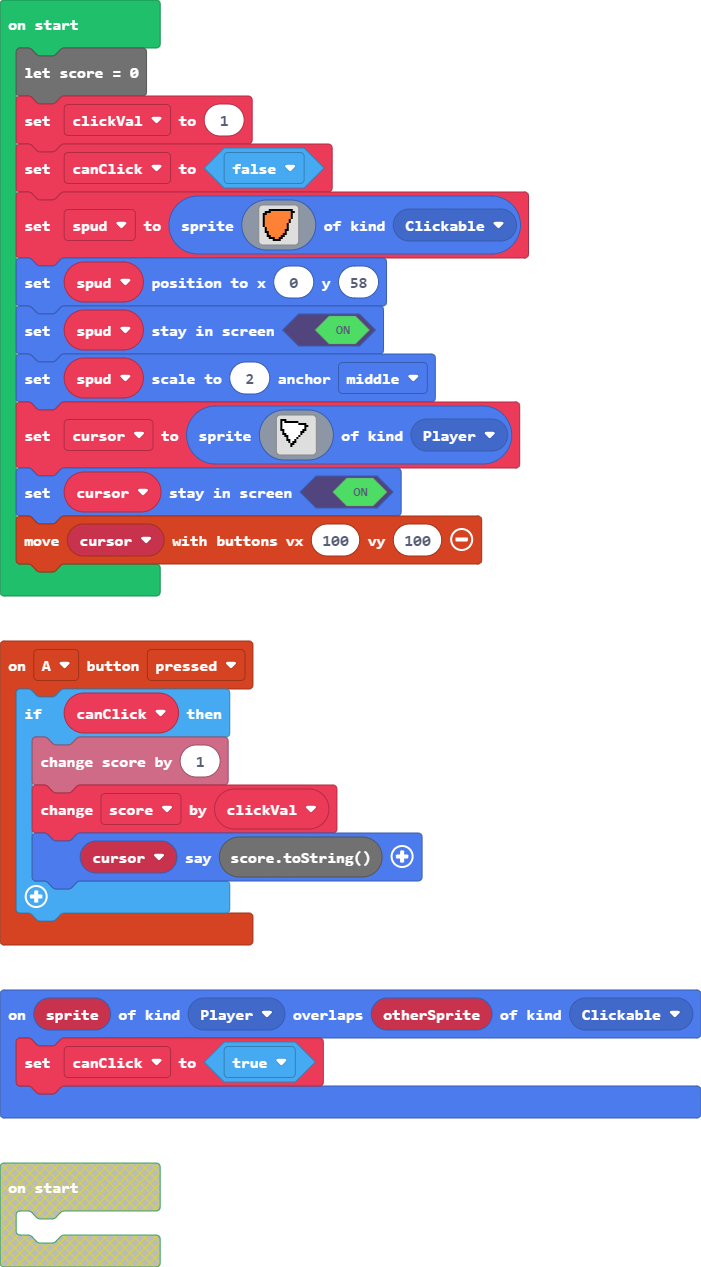
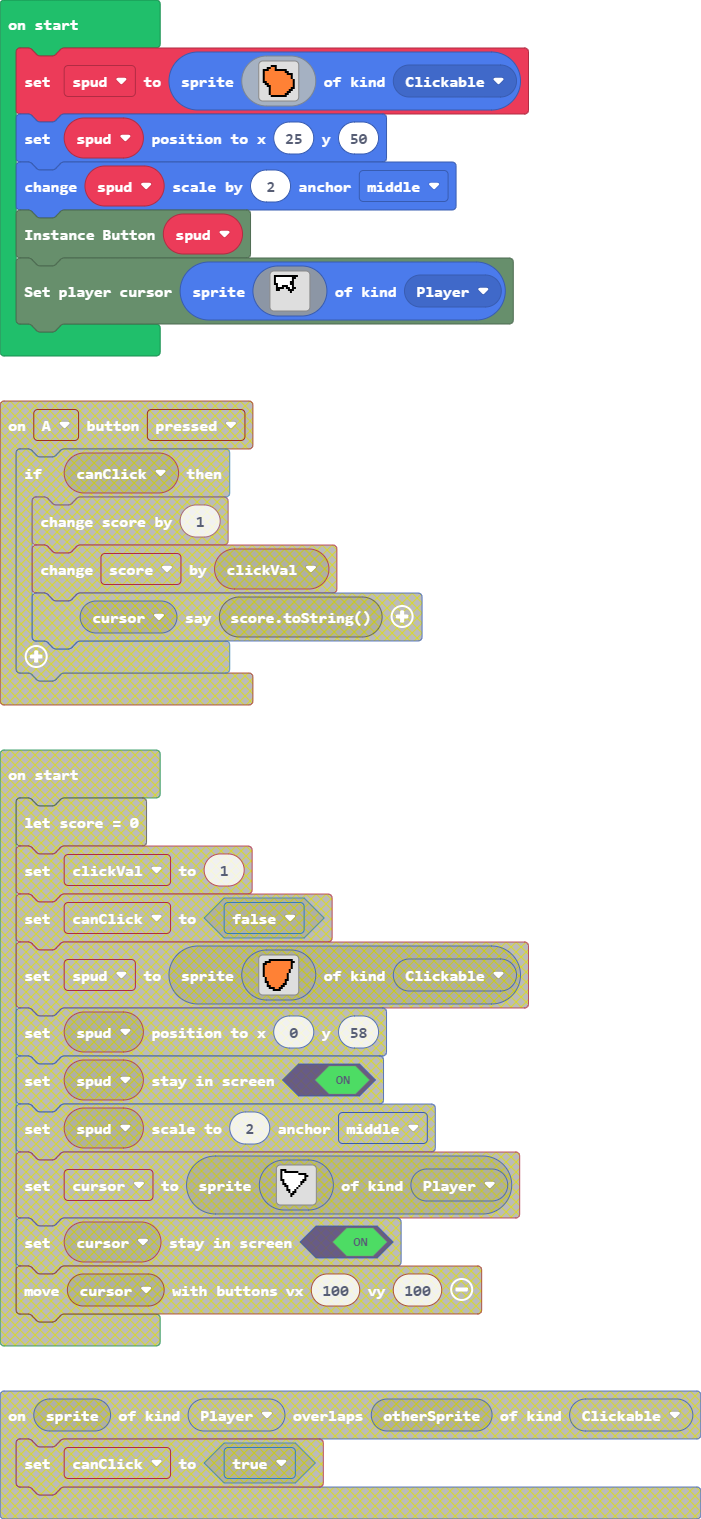
The base of a button system

diff --git a/main.ts b/main.ts
@@ -1,60 +1,42 @@
 namespace SpriteKind {
     export const Clickable = SpriteKind.create()
 }
-controller.A.onEvent(ControllerButtonEvent.Pressed, function () {
-    if (canClick) {
-        info.changeScoreBy(1)
-        score += clickVal
-        cursor.sayText(score.toString())
-    }
-})
-sprites.onOverlap(SpriteKind.Player, SpriteKind.Clickable, function (sprite, otherSprite) {
-    canClick = true
-})
-let cursor: Sprite = null
-let canClick = false
-let clickVal = 0
-let score = 0
-clickVal = 1
-canClick = false
 let spud = sprites.create(img`
-    . . . f f f f f f f f f f f f . 
-    . f f f 4 4 4 4 4 4 4 4 4 4 f f 
-    f f 4 4 4 4 4 4 4 4 4 4 4 4 f . 
+    . . . . f f f . . . . . . . . . 
+    . . f f 4 4 f . . . . . . . . . 
+    f f f 4 4 4 f f f f f f . . . . 
+    f 4 4 4 4 4 4 4 4 4 4 f f . . . 
+    f 4 4 4 4 4 4 4 4 4 4 4 f f f . 
     f 4 4 4 4 4 4 4 4 4 4 4 4 4 f . 
     f 4 4 4 4 4 4 4 4 4 4 4 4 4 f . 
-    f 4 4 4 4 4 4 4 4 4 4 4 4 f . . 
-    f 4 4 4 4 4 4 4 4 4 4 4 4 f . . 
-    f 4 4 4 4 4 4 4 4 4 4 4 f . . . 
-    f 4 4 4 4 4 4 4 4 4 4 4 f . . . 
-    . f 4 4 4 4 4 4 4 4 4 4 f . . . 
-    . f 4 4 4 4 4 4 4 4 4 f f . . . 
-    . f f 4 4 4 4 4 4 4 4 f . . . . 
-    . . f 4 4 4 4 4 4 4 f f . . . . 
-    . . f f 4 4 4 4 4 f f . . . . . 
-    . . . f f f 4 4 f f . . . . . . 
-    . . . . . f f f f . . . . . . . 
+    f 4 4 4 4 4 4 4 4 4 4 4 4 4 4 f 
+    f f 4 4 4 4 4 4 4 4 4 4 4 4 4 f 
+    . f f 4 4 4 4 4 4 4 4 4 4 4 4 f 
+    . . f f 4 4 4 4 4 4 4 4 4 4 4 f 
+    . . . f 4 4 4 4 4 4 4 4 4 4 f f 
+    . . . f 4 4 4 4 4 4 4 4 4 f f . 
+    . . . f 4 4 4 4 4 4 4 4 f f . . 
+    . . . f 4 4 4 4 4 4 4 f f . . . 
+    . . . . f f f f f f f f . . . . 
     `, SpriteKind.Clickable)
-spud.setPosition(0, 58)
-spud.setStayInScreen(true)
-spud.setScale(2, ScaleAnchor.Middle)
-cursor = sprites.create(img`
-    f f f . . . . . . . . . . . . . 
-    f 1 f f f f f f f . . . . . . . 
-    f 1 1 1 1 1 1 1 1 f f f f . . . 
-    f 1 1 1 1 1 1 1 1 1 1 1 f f . . 
-    f 1 1 1 1 1 1 1 1 1 1 1 f . . . 
-    f f 1 1 1 1 1 1 1 1 1 f f . . . 
-    . f 1 1 1 1 1 1 1 1 f f . . . . 
-    . f f 1 1 1 1 1 1 1 f . . . . . 
-    . . f f 1 1 1 1 1 f . . . . . . 
-    . . . f 1 1 1 1 f . . . . . . . 
-    . . . f f 1 1 f . . . . . . . . 
-    . . . . f 1 f f . . . . . . . . 
-    . . . . . f f . . . . . . . . . 
-    . . . . . f . . . . . . . . . . 
+spud.setPosition(25, 50)
+spud.changeScale(2, ScaleAnchor.Middle)
+ui.instanceButton(spud)
+ui.setCursor(sprites.create(img`
+    f f f f f f f f f f f f . . . . 
+    f 1 1 1 1 1 1 1 1 f f . . . . . 
+    f 1 1 1 1 1 1 1 1 f . . . . . . 
+    f 1 1 1 1 1 1 1 f f . . . . . . 
+    f f 1 1 1 1 1 1 f f . . . . . . 
+    . f 1 1 f f f 1 1 f . . . . . . 
+    . f f f f . f f 1 f f . . . . . 
+    . f f . . . . f f f . . . . . . 
+    . . . . . . . . f . . . . . . . 
     . . . . . . . . . . . . . . . . 
     . . . . . . . . . . . . . . . . 
-    `, SpriteKind.Player)
-cursor.setStayInScreen(true)
-controller.moveSprite(cursor, 100, 100)
+    . . . . . . . . . . . . . . . . 
+    . . . . . . . . . . . . . . . . 
+    . . . . . . . . . . . . . . . . 
+    . . . . . . . . . . . . . . . . 
+    . . . . . . . . . . . . . . . . 
+    `, SpriteKind.Player))

diff --git a/ui.ts b/ui.ts
@@ -1,0 +1,48 @@
+import Button = button.Button
+
+//% block="UI" weight=102 color=#678f6c icon="\uf00b"
+//% groups=["UIManager", "Button"]
+namespace ui {
+    const buttonArr: Button[] = []
+    let cursor: Sprite = null
+
+    /** Instances a new Button object
+     * @param sprite - The texture of the button
+     */
+    //% block="Instance|Button $sprite $tiggerEvent " group="Button"
+    //% group="Button"
+    export function instanceButton(sprite: Sprite): void {
+        let button = new Button(sprite)
+        buttonArr.push(button)
+    }
+
+    /** Sets the player cursor recognised by UI objects
+     * Must be set for UI elements to work
+     * @param sprite - The sprite of the cursor
+     */
+    //% block="Set|player|cursor $sprite"
+    //% group="UIManager"
+    export function setCursor(sprite: Sprite): void {
+        cursor = sprite
+        controller.moveSprite(cursor)
+    }
+
+    // When the player clicks - checks if they clicked a button
+    function onClick(): void {
+        // Checks if player cursor has been set
+        if (cursor == null) {
+            return
+        }
+        // Iterates through each Button object
+        for (let button of buttonArr) {
+            // Checks if the button overlaps with the cursor
+            if (button.sprite.overlapsWith(cursor)) {
+                button.trigger()
+            }
+        }
+    }
+
+    controller.A.onEvent(ControllerButtonEvent.Pressed, function () {
+        onClick()
+    })
+}

diff --git a/button.ts b/button.ts
@@ -1,0 +1,15 @@
+//% blockNamespace="ui"
+namespace button {
+    export class Button {
+        sprite: Sprite
+
+        constructor(sprite: Sprite) {
+            this.sprite = sprite
+        }
+
+        trigger() {
+        }
+    }
+
+    // ALL BUTTONS INHERIT FROM BUTTON CLASS
+}
